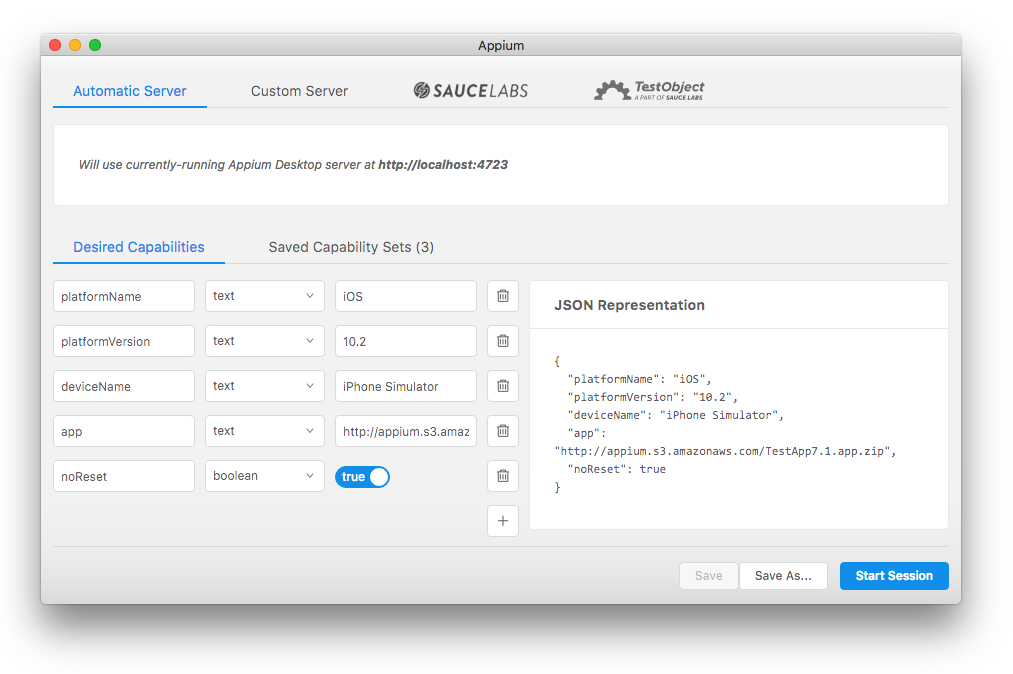
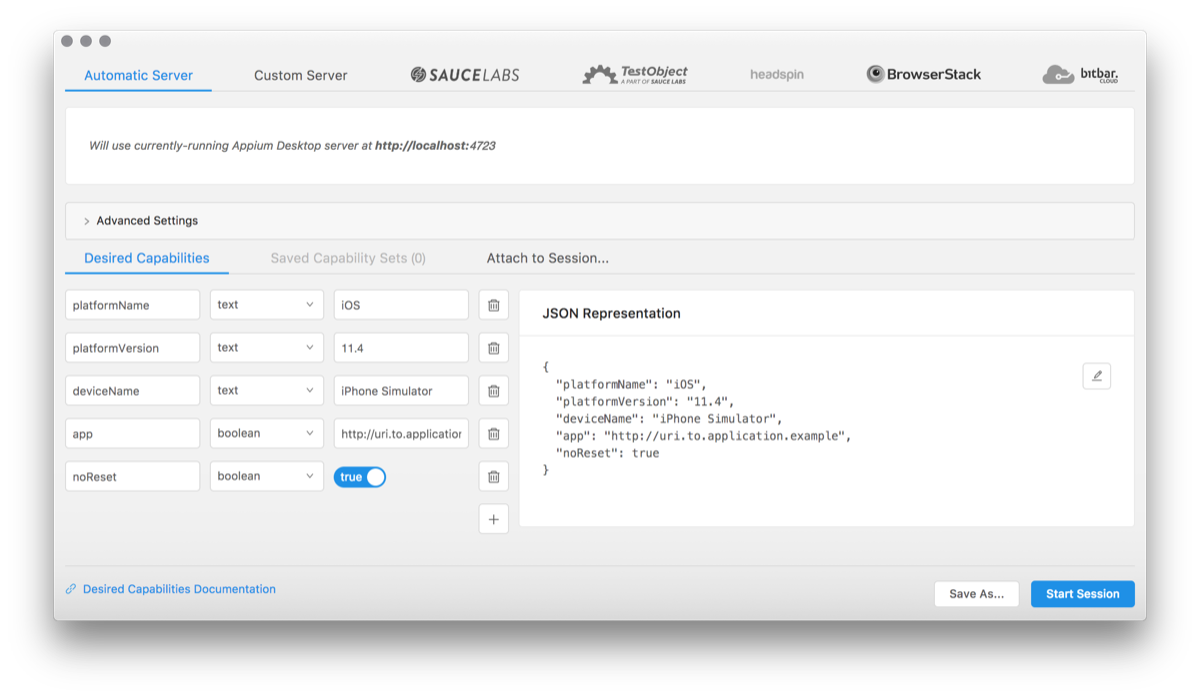
Update readme with cloud provider information

diff --git a/README.md b/README.md
@@ -108,9 +108,15 @@ this case, attaching to the local server will be disabled.
 
 These are the options for launching a session against a non-local Appium server:
 
-* A custom host/port configuration: this is useful if you want to launch an Inspector session against an Appium server running on another machine in your network, for example.
-* Sauce Labs: if you don't have access to, say, iOS simulators on your machine, you can leverage your [Sauce Labs](https://saucelabs.com) account to start an Appium session in the cloud.
-* TestObject: you can also utilize [TestObject](https://testobject.com)'s cloud of real devices for a real device-based Inspector session.
+|     Endpoint     |                                                        Description                                                         |
+| ---------------- | -------------------------------------------------------------------------------------------------------------------------- |
+| Automatic server | Automatically utilizes the currently-running Appium server                                                                 |
+| Custom Server    | Launch a session on an Appium server running on another machine over the network                                           |
+| Sauce Labs       | Launch a session on the [Sauce Labs](https://saucelabs.com) cloud. [Documentation](https://wiki.saucelabs.com/)            |
+| TestObject       | Launch a session on the [TestObject](https://testobject.com) cloud. [Documentation](https://wiki.saucelabs.com/)           |
+| Headspin         | Launch a session on the [Headspin](https://headspin.com) cloud. [Documentation](https://docs.headspin.io/)                 |
+| BrowserStack     | Launch a session on the [Browserstack](https://browserstack.com) cloud. [Documentation](https://www.browserstack.com/docs) |
+| Bitbar           | Launch a session on the [Bitbar](https://bitbar.com) cloud. [Documentation](http://docs.bitbar.com/)                       |
 
 It should be straightforward to get set up with any of these options. Simply
 enter your details in the input fields provided.
@@ -121,7 +127,9 @@ Desired capabilities are how you configure your Appium session. They tell the
 Appium server what kind of platform and app you want to automate. If you are
 unfamiliar with the concept of desired capabilities, or which desired
 capabilities are required to launch Appium sessions of various types, you
-should consult the Appium documentation.
+should consult the Appium documentation. Additionally, if you're using one of
+the cloud providers, consult their documentation for possible vendor-specific
+details.
 
 Appium Desktop does not restrict your creation of desired capabilities in any
 way, nor will it validate them for you. It simply provides a nice UI for
